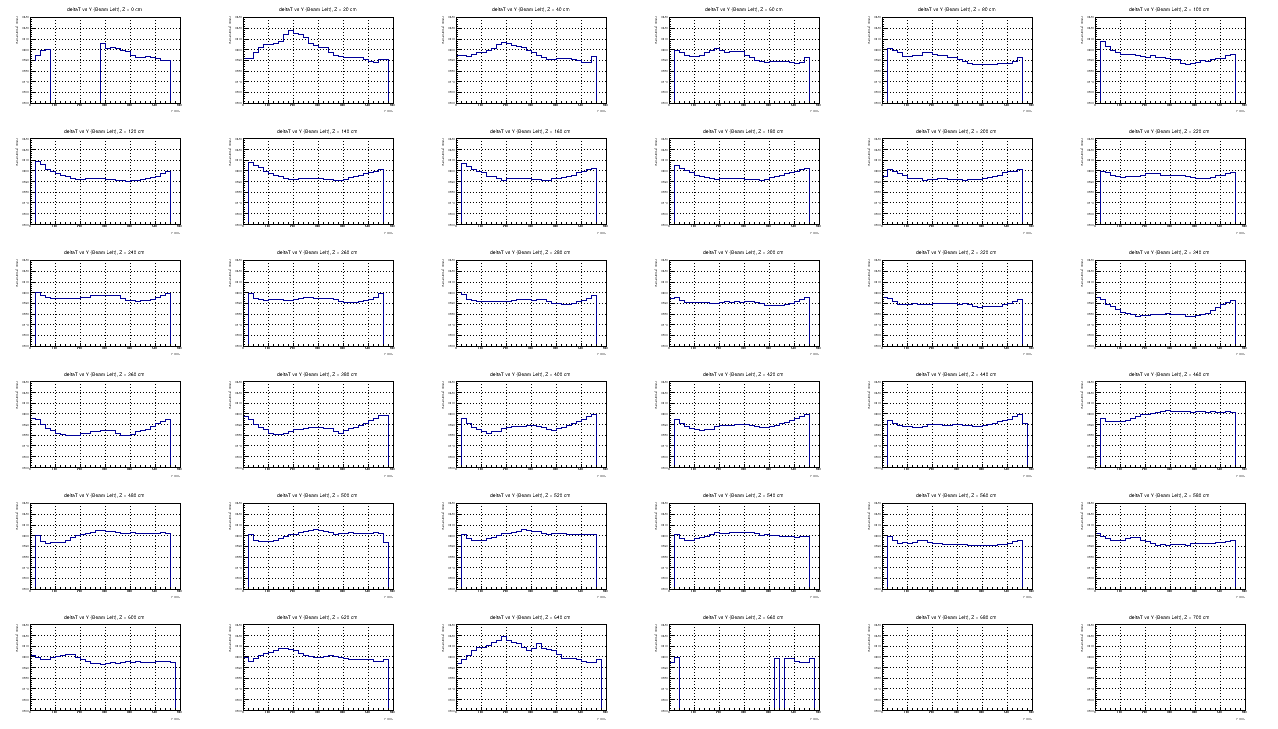
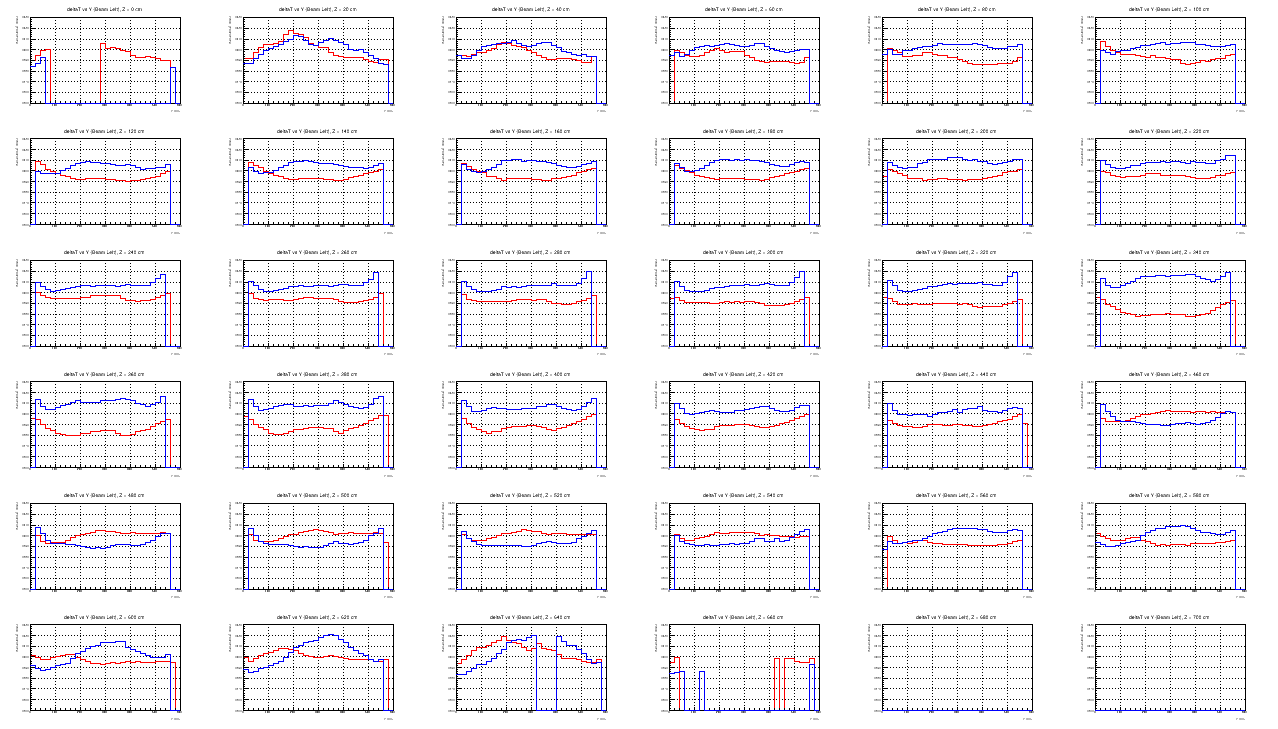
update

diff --git a/scripts/frame_distortion/post_process/plot_dTvsY_dTvsZ.C b/scripts/frame_distortion/post_process/plot_dTvsY_dTvsZ.C
@@ -150,8 +150,12 @@ void plot_dTvsY_dTvsZ()
         if (save_root_file) deltaTY[i]->Write();
         c->cd(i+1);
         deltaTY[i]->Draw("hist");
+        deltaTY[i]->SetLineColor(kRed);
         deltaTY[i]->GetYaxis()->SetRangeUser(4550,4630);
+    
         if (save_root_file) deltaTY_neg[i]->Write();
+        deltaTY_neg[i]->Draw("hist SAME");
+        deltaTY_neg[i]->SetLineColor(kBlue);
         deltaTY_neg[i]->GetYaxis()->SetRangeUser(4550,4630);
     }
     for (int i=0; i<nbinsY; i++) 
@@ -159,11 +163,16 @@ void plot_dTvsY_dTvsZ()
         if (save_root_file) deltaTZ[i]->Write();
         c2->cd(i+1);
         deltaTZ[i]->Draw("hist");
+        deltaTZ[i]->SetLineColor(kRed);
         deltaTZ[i]->GetYaxis()->SetRangeUser(4550,4630);
+
         if (save_root_file) deltaTZ_neg[i]->Write();
+        deltaTZ_neg[i]->Draw("hist SAME");
+        deltaTZ_neg[i]->SetLineColor(kBlue);
+        deltaTZ_neg[i]->GetYaxis()->SetRangeUser(4550,4630);
     }
 
-    c->SaveAs("dT_vs_Y_unordered_wo_thermal.png");
-    c2->SaveAs("dT_vs_Z_unordered_wo_thermal.png");
+    c->SaveAs("./../../../plots/data/dT_vs_Y_unordered_wo_thermal.png");
+    c2->SaveAs("./../../../plots/data/dT_vs_Z_unordered_wo_thermal.png");
     if (save_root_file) file->Write();
 }
